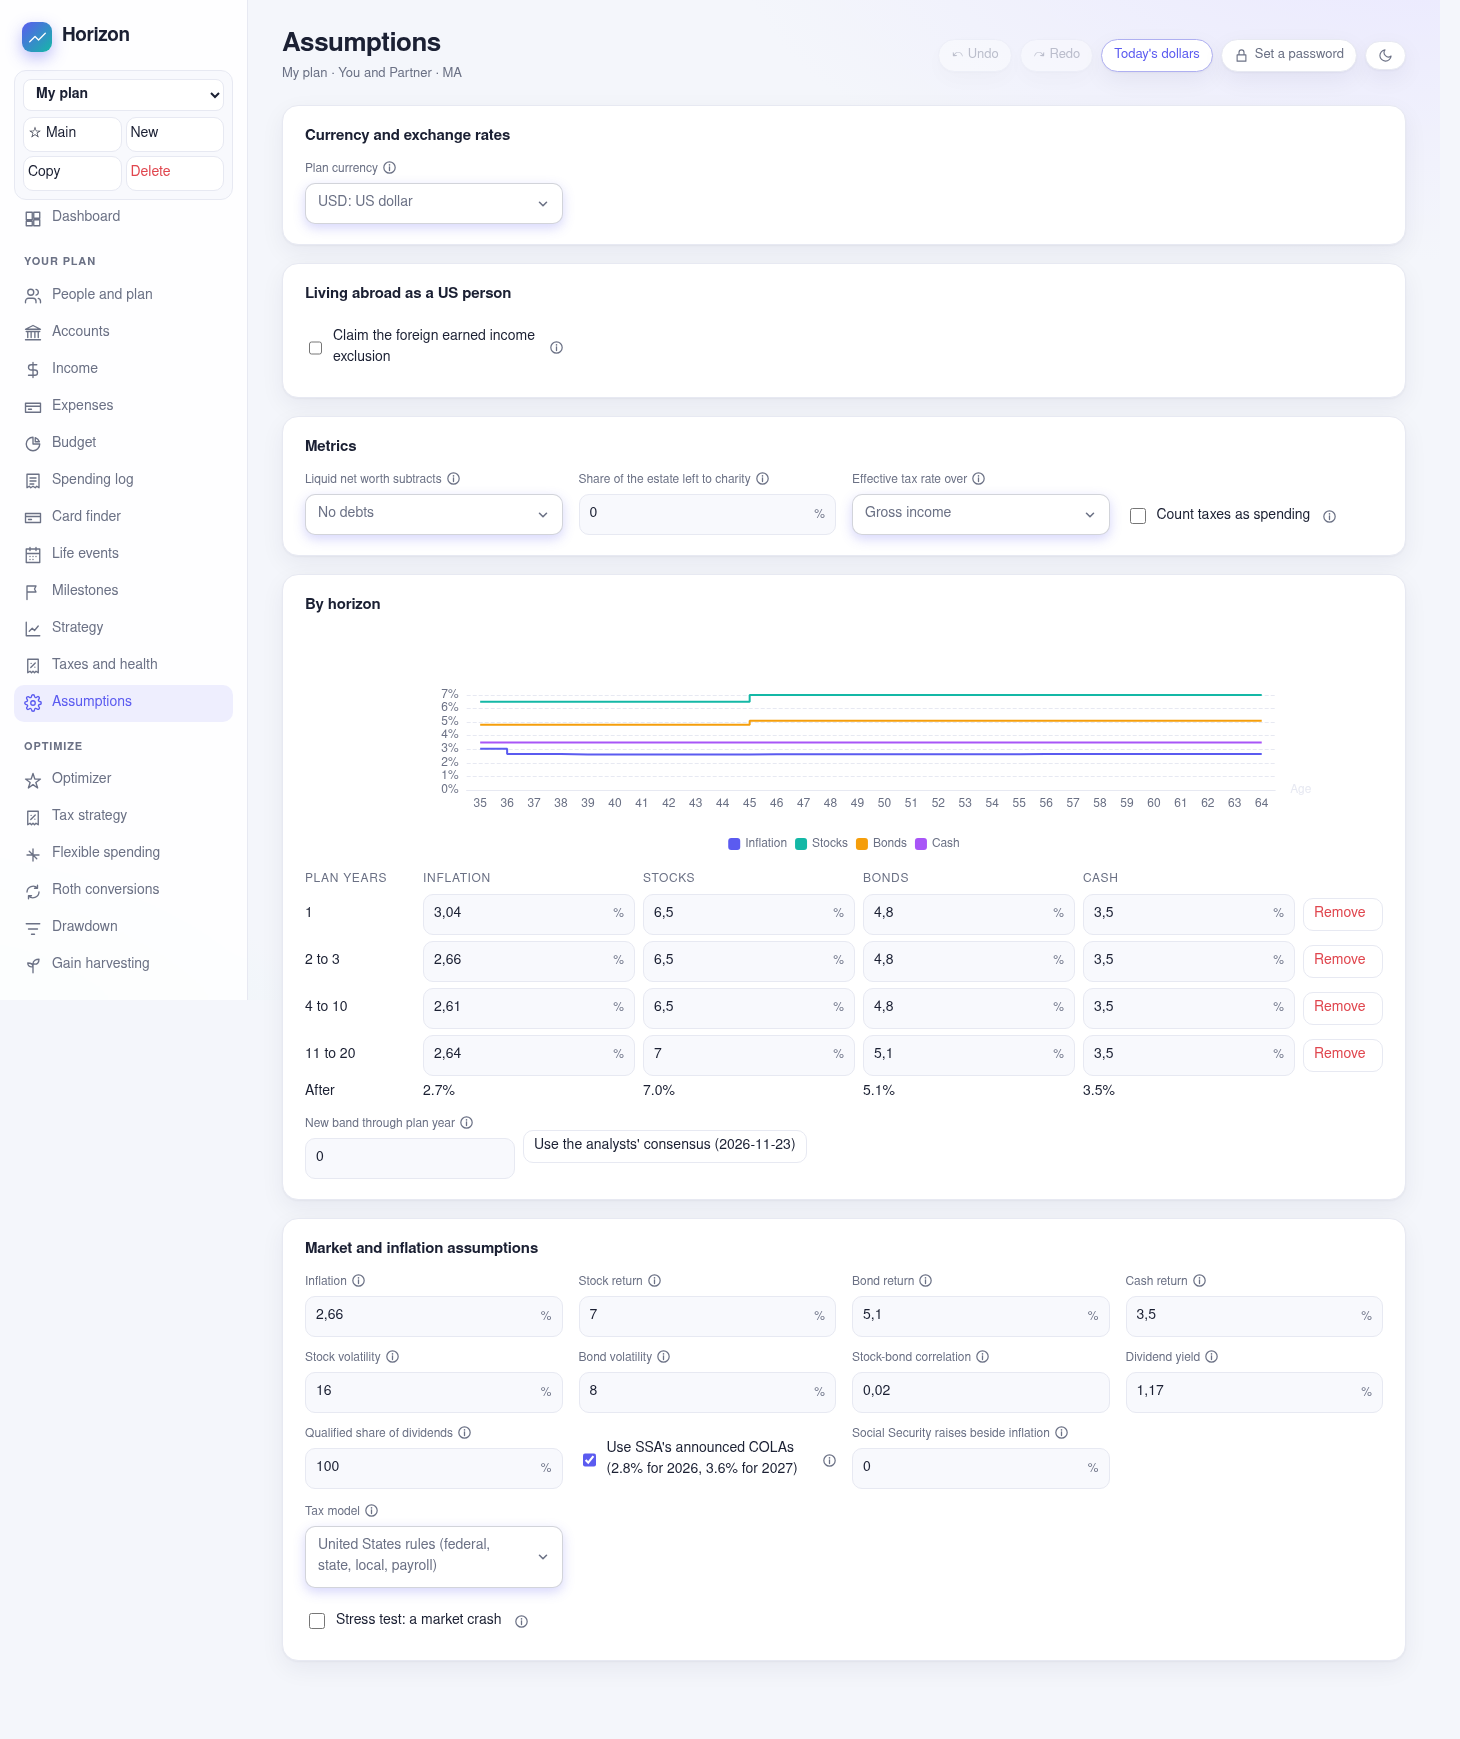
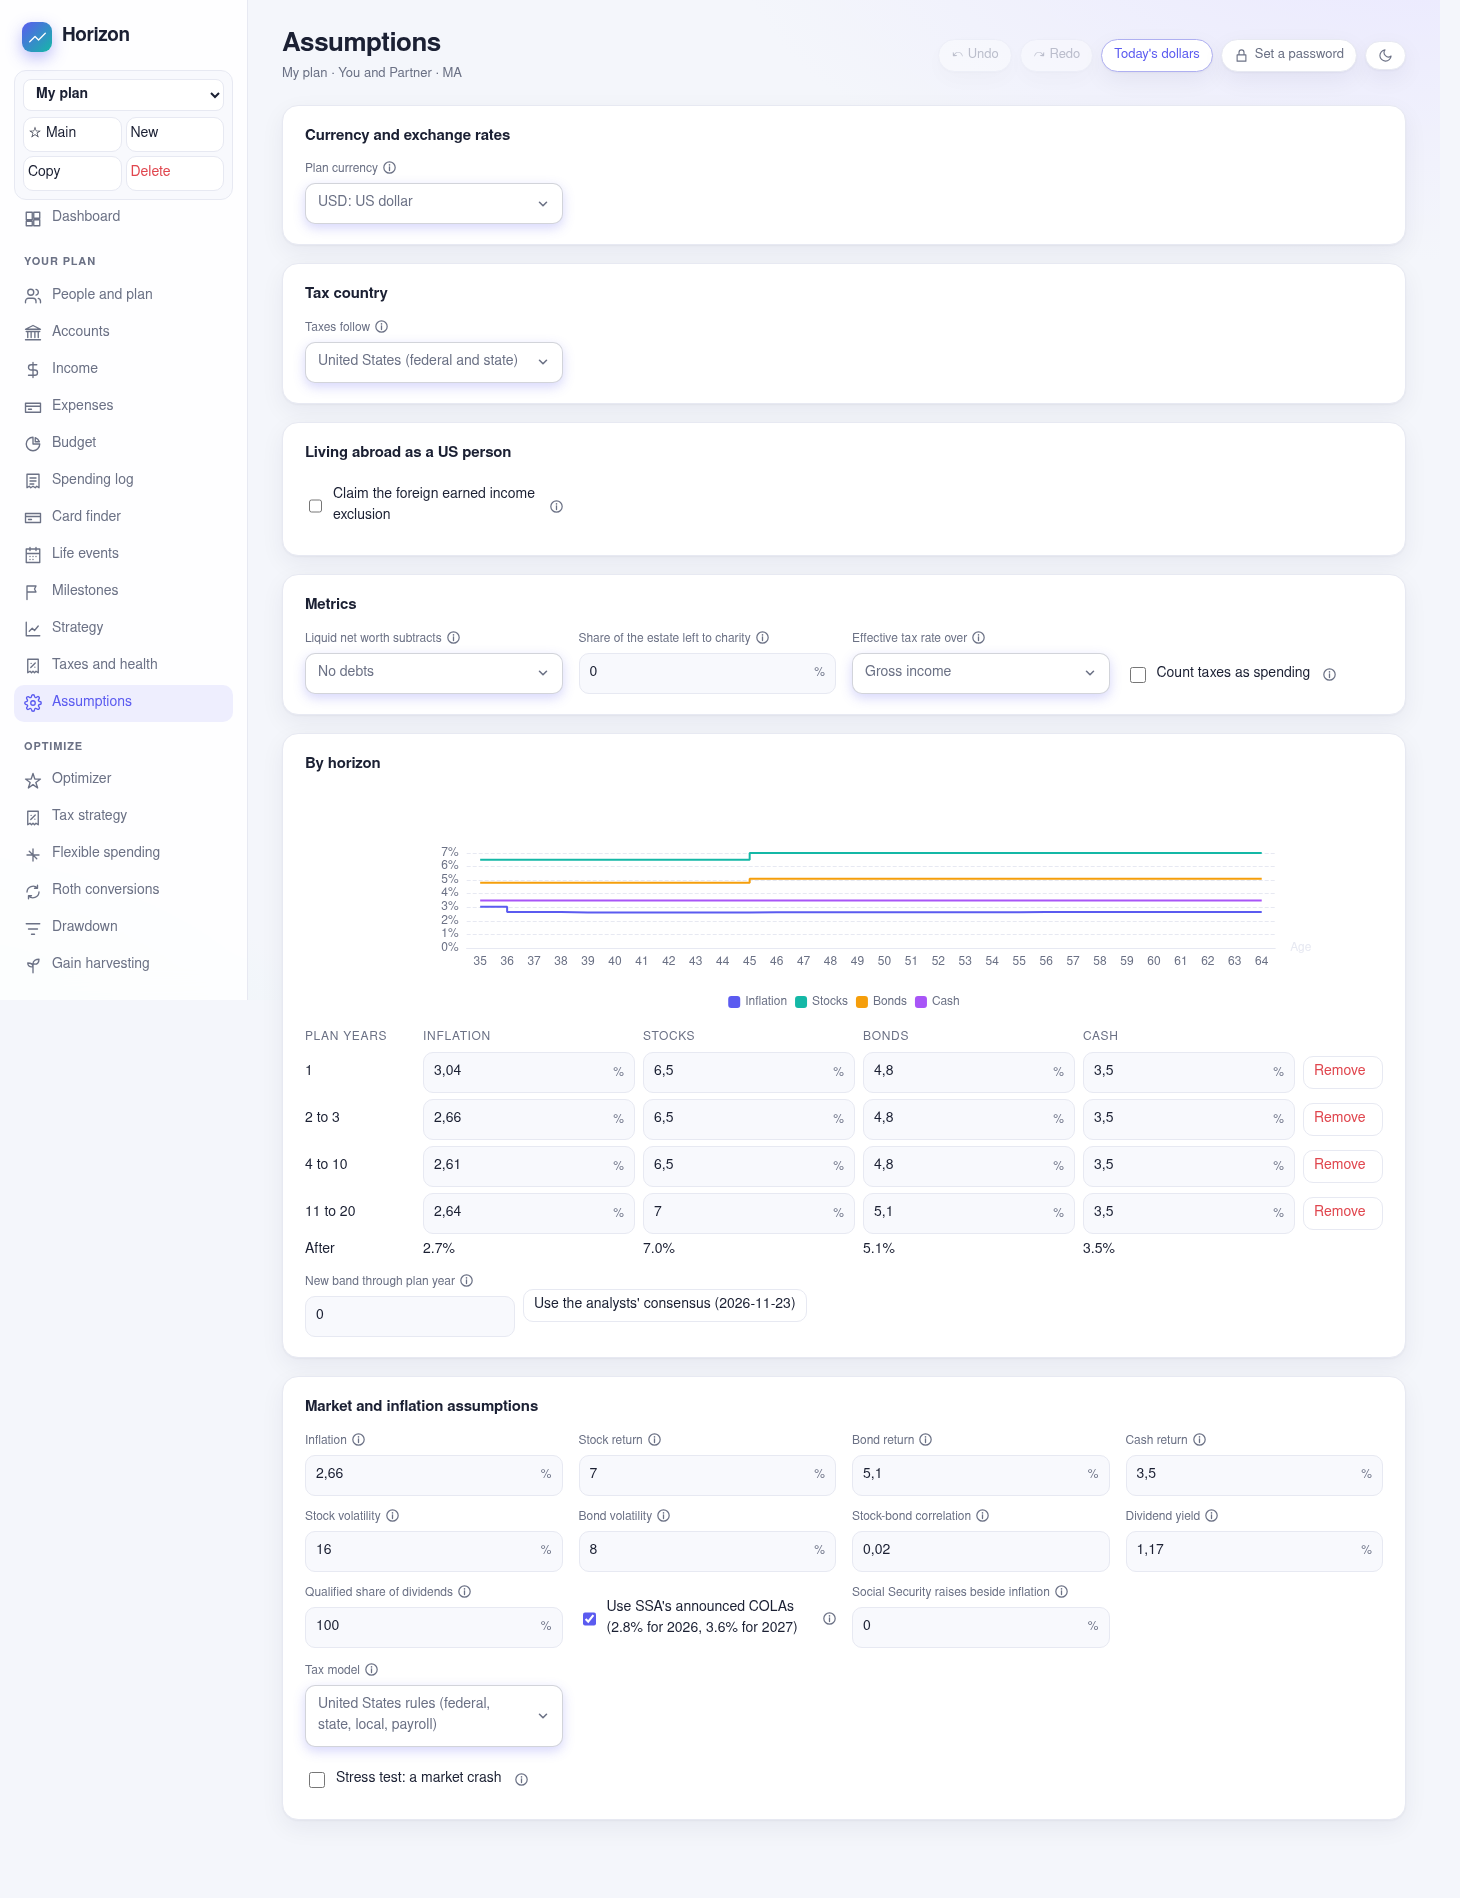
UK taxes (HMRC 2026 to 2027): income tax with the allowance taper, savings and dividend layers, Class 1 NI, and capital gains tax
Claude-Session: https://claude.ai/code/session_01HeJ1UAxjk6MGEszesTwGbu

diff --git a/10_app/code/src/engine/uk.ts b/10_app/code/src/engine/uk.ts
@@ -1,0 +1,67 @@
+// United Kingdom income tax, National Insurance, and capital gains tax (England, Wales, and Northern Ireland), 2026 to 2027,
+// from HMRC: gov.uk/government/publications/rates-and-allowances-income-tax (bands and the personal allowance, frozen through
+// 2030 to 2031 by Budget 2026), gov.uk/guidance/rates-and-thresholds-for-employers-2026-to-2027 (Class 1 NI),
+// and gov.uk/government/publications/changes-to-tax-rates-for-property-savings-and-dividend-income (dividend rates from
+// April 2026). The UK taxes each person: a couple's income is split evenly between the two. Not modeled: Scotland's bands,
+// the 25% tax-free pension lump sum, and the 2-point rise in savings rates from April 2027.
+import type { TaxInput, TaxResult } from './tax';
+
+export const UK = {
+  personalAllowance: 12570, taperFrom: 100000, basicBand: 37700, additionalFrom: 125140,
+  rates: { basic: 0.2, higher: 0.4, additional: 0.45 },
+  dividend: { allowance: 500, basic: 0.1075, higher: 0.3575, additional: 0.3935 },
+  savings: { startingBand: 5000, psaBasic: 1000, psaHigher: 500 },
+  cgt: { exempt: 3000, basic: 0.18, higher: 0.24 },
+  ni: { primary: 12570, upper: 50270, main: 0.08, above: 0.02 },
+};
+
+/** One person's UK taxes, in pounds, with thresholds raised by the index (1 while they stay frozen). */
+export function ukPerson(p: { earned: number; pension: number; savings: number; dividends: number; gains: number; employment: number }, k = 1) {
+  const u = UK;
+  const total = p.earned + p.pension + p.savings + p.dividends;
+  const pa = Math.max(0, u.personalAllowance * k - Math.max(0, total - u.taperFrom * k) / 2);
+  const basicTop = u.basicBand * k, addFrom = Math.max(0, u.additionalFrom * k - pa);
+  // Non-savings income first, then savings, then dividends, each on the bands the earlier layers left.
+  let used = 0, tax = 0, marginal = 0;
+  const band = (amt: number, rates: [number, number, number]) => {
+    let t = 0;
+    for (const [hi, r] of [[basicTop, rates[0]], [addFrom, rates[1]], [Infinity, rates[2]]] as [number, number][]) {
+      const room = Math.max(0, hi - used), take = Math.min(room, amt);
+      if (take > 0) { t += take * r; used += take; amt -= take; marginal = r; }
+    }
+    return t;
+  };
+  const allowanceLeft = (x: number) => { const a = Math.min(x, paLeft); paLeft -= a; return x - a; };
+  let paLeft = pa;
+  const nonSav = allowanceLeft(p.earned + p.pension);
+  tax += band(nonSav, [u.rates.basic, u.rates.higher, u.rates.additional]);
+  let sav = allowanceLeft(p.savings);
+  const starting = Math.max(0, u.savings.startingBand * k - nonSav), free0 = Math.min(sav, starting);
+  used += free0; sav -= free0;
+  const psa = used + sav > addFrom ? 0 : used + sav > basicTop ? u.savings.psaHigher * k : u.savings.psaBasic * k, free1 = Math.min(sav, psa);
+  used += free1; sav -= free1;
+  tax += band(sav, [u.rates.basic, u.rates.higher, u.rates.additional]);
+  let div = allowanceLeft(p.dividends);
+  const dAllow = Math.min(div, u.dividend.allowance * k);
+  used += dAllow; div -= dAllow;
+  tax += band(div, [u.dividend.basic, u.dividend.higher, u.dividend.additional]);
+  const g = Math.max(0, p.gains - u.cgt.exempt * k), basicLeft = Math.max(0, basicTop - used);
+  const cgt = Math.min(g, basicLeft) * u.cgt.basic + Math.max(0, g - basicLeft) * u.cgt.higher;
+  const ni = Math.max(0, Math.min(p.employment, u.ni.upper * k) - u.ni.primary * k) * u.ni.main + Math.max(0, p.employment - u.ni.upper * k) * u.ni.above;
+  return { income: tax, cgt, ni, taxable: Math.max(0, total - pa), allowance: pa, marginal };
+}
+
+/** The UK in the shape of the engine's tax result: income tax in federal, NI in fica, capital gains tax on its own line. */
+export function ukTax(t: TaxInput): TaxResult {
+  const n = t.status === 'mfj' ? 2 : 1, k = 1;
+  const per = ukPerson({
+    earned: (t.wages + t.selfEmployment - t.preTaxDeductions) / n, pension: (t.otherOrdinary + t.socialSecurity) / n,
+    savings: t.interest / n, dividends: t.qualifiedDividends / n, gains: Math.max(0, t.longTermGains) / n, employment: (t.wages + t.selfEmployment) / n,
+  }, k);
+  const income = per.income * n, cgt = per.cgt * n, ni = per.ni * n, total = income + cgt + ni;
+  const gross = t.wages + t.selfEmployment + t.otherOrdinary + t.interest + t.qualifiedDividends + Math.max(0, t.longTermGains) + t.socialSecurity;
+  return { federal: income, capitalGains: cgt, niit: 0, fica: ni, state: 0, penalty: 0, total, taxableIncome: per.taxable * n,
+    ordinaryTaxable: per.taxable * n, taxableSocialSecurity: t.socialSecurity, marginalRate: per.marginal, effectiveRate: gross > 0 ? total / gross : 0,
+    agi: gross - t.preTaxDeductions, deduction: per.allowance * n, itemized: false, credits: 0, amt: 0, local: 0, foreignExclusion: 0, foreignTaxCredit: 0,
+    foreignTaxPaid: 0, seniorDeduction: 0, qbi: 0 };
+}

diff --git a/10_app/code/src/engine/tax.ts b/10_app/code/src/engine/tax.ts
@@ -1,6 +1,7 @@
 // US federal and state income tax for one household-year, plus the health premiums tied to income (Medicare with
 // IRMAA, the ACA premium tax credit). Each year uses the newest published rules at or before it (2026, 2027), with
 // dollar amounts indexed by the plan's inflation after that rules year.
+import { ukTax } from './uk';
 import federalYears from '../data/federal.json';
 import states from '../data/states.json';
 import health from '../data/healthcare.json';
@@ -21,6 +22,8 @@ export function rulesFor(year: number): { rules: Rules; year: number } {
 export const rules = rulesFor(YEARS[0]).rules;
 
 export interface TaxInput {
+  /** The country whose taxes apply: the United States where unset, or the UK (engine/uk.ts). */
+  country?: 'US' | 'UK';
   /** The spread of incentive stock options exercised and held this year: an AMT preference item (section 56(b)(3)). */
   isoSpread?: number;
   /** A US person's income from abroad: the exclusion and the foreign tax credit. */
@@ -225,6 +228,7 @@ export function stateTax(state: string, agi: number, ssTaxable: number, status: 
 }
 
 export function computeTax(t: TaxInput): TaxResult {
+  if (t.country === 'UK') return ukTax(t);
   if (t.flatRate !== undefined) return flatTax(t, t.flatRate);
   const r = rulesFor(t.year).rules;
   const k = t.index;

diff --git a/10_app/code/src/engine/__tests__/uk.test.ts b/10_app/code/src/engine/__tests__/uk.test.ts
@@ -1,0 +1,21 @@
+import { describe, expect, it } from 'vitest';
+import { ukPerson } from '../uk';
+
+describe('UK tax, 2026 to 2027', () => {
+  it('taxes a £50,000 salary as HMRC does', () => {
+    // income tax: (50,000 - 12,570) x 20% = 7,486; NI: (50,000 - 12,570) x 8% = 2,994.40
+    const r = ukPerson({ earned: 50000, pension: 0, savings: 0, dividends: 0, gains: 0, employment: 50000 });
+    expect(r.income).toBeCloseTo(7486, 2);
+    expect(r.ni).toBeCloseTo(2994.4, 2);
+  });
+  it('tapers the personal allowance away by £125,140', () => {
+    // no allowance: 37,700 x 20% + (125,140 - 37,700) x 40% + (130,000 - 125,140) x 45%
+    const r = ukPerson({ earned: 130000, pension: 0, savings: 0, dividends: 0, gains: 0, employment: 0 });
+    expect(r.allowance).toBe(0);
+    expect(r.income).toBeCloseTo(37700 * 0.2 + 87440 * 0.4 + 4860 * 0.45, 2);
+  });
+  it('taxes dividends above the allowance at the ordinary rate', () => {
+    const r = ukPerson({ earned: 20000, pension: 0, savings: 0, dividends: 2500, gains: 0, employment: 0 });
+    expect(r.income).toBeCloseTo((20000 - 12570) * 0.2 + 2000 * 0.1075, 2);
+  });
+});

diff --git a/10_app/code/src/engine/simulate.ts b/10_app/code/src/engine/simulate.ts
@@ -817,7 +817,7 @@ function simulateOnce(plan: Plan, path: ReturnPath, rothByYear?: Record<number, 
         earlyWithdrawals: e + xEarly, over65: alive.filter((p) => ages[p.id] >= 65).length, state: residence,
         itemize: dd.itemize, itemizedOther: mortgageInterest + charity, propertyTax,
         children: kids, otherDependents: otherDeps, collegeStudents: students, local: localIn(y),
-        childrenUnder13: kidsUnder13, dependentCare: careCost, isoSpread,
+        childrenUnder13: kidsUnder13, dependentCare: careCost, isoSpread, country: a.taxCountry,
         saverContributions: alive.map((p) => (deferredBy[p.id] ?? 0) + (p.id === firstWorker?.id ? iraIn + rothIn : 0)) });
     }
     let harvested = 0;

diff --git a/10_app/code/src/engine/types.ts b/10_app/code/src/engine/types.ts
@@ -442,6 +442,8 @@ export interface Assumptions {
   benefitCola?: number;
   /** Social Security follows SSA's announced COLAs for the years they are known (on unless set false). */
   announcedCola?: boolean;
+  /** The country whose taxes apply (engine/uk.ts): the United States where unset. */
+  taxCountry?: 'US' | 'UK';
   /** The share of taxable accounts' dividends which are qualified (taxed at capital gains rates); the rest is ordinary. 1 where unset. */
   qualifiedDividendShare?: number;
   /** Exchange-rate assumptions by foreign currency: units of the plan's currency for one unit today, and the rate's

diff --git a/10_app/code/src/help.ts b/10_app/code/src/help.ts
@@ -304,4 +304,5 @@ export const HELP: Record<string, string> = {
   "Deductible": "What you pay in full each year before the plan starts sharing costs.",
   "Coinsurance after the deductible": "Your share of bills after the deductible: 20% for a typical plan.",
   "Out-of-pocket maximum": "The most you pay in a year for covered care; the plan pays everything above it.",
+  "Taxes follow": "The country whose income tax, social insurance, and capital gains tax apply. The UK uses HMRC's 2026 to 2027 bands, allowances, and National Insurance, with each person taxed on their own share.",
 };

diff --git a/10_app/code/src/pages/Editors.tsx b/10_app/code/src/pages/Editors.tsx
@@ -1012,6 +1012,11 @@ export function AssumptionsPage() {
   return (
     <>
     <CurrencyCard />
+    <Card title="Tax country">
+      <div className="grid">
+        <Select label="Taxes follow" value={a.taxCountry ?? 'US'} options={[['US', 'United States (federal and state)'], ['UK', 'United Kingdom (England, Wales, Northern Ireland)']]} onChange={(v) => update((p) => { p.assumptions.taxCountry = v === 'US' ? undefined : v; })} />
+      </div>
+    </Card>
     <ExpatCard />
     <Card title="Metrics">
         <div className="grid">
